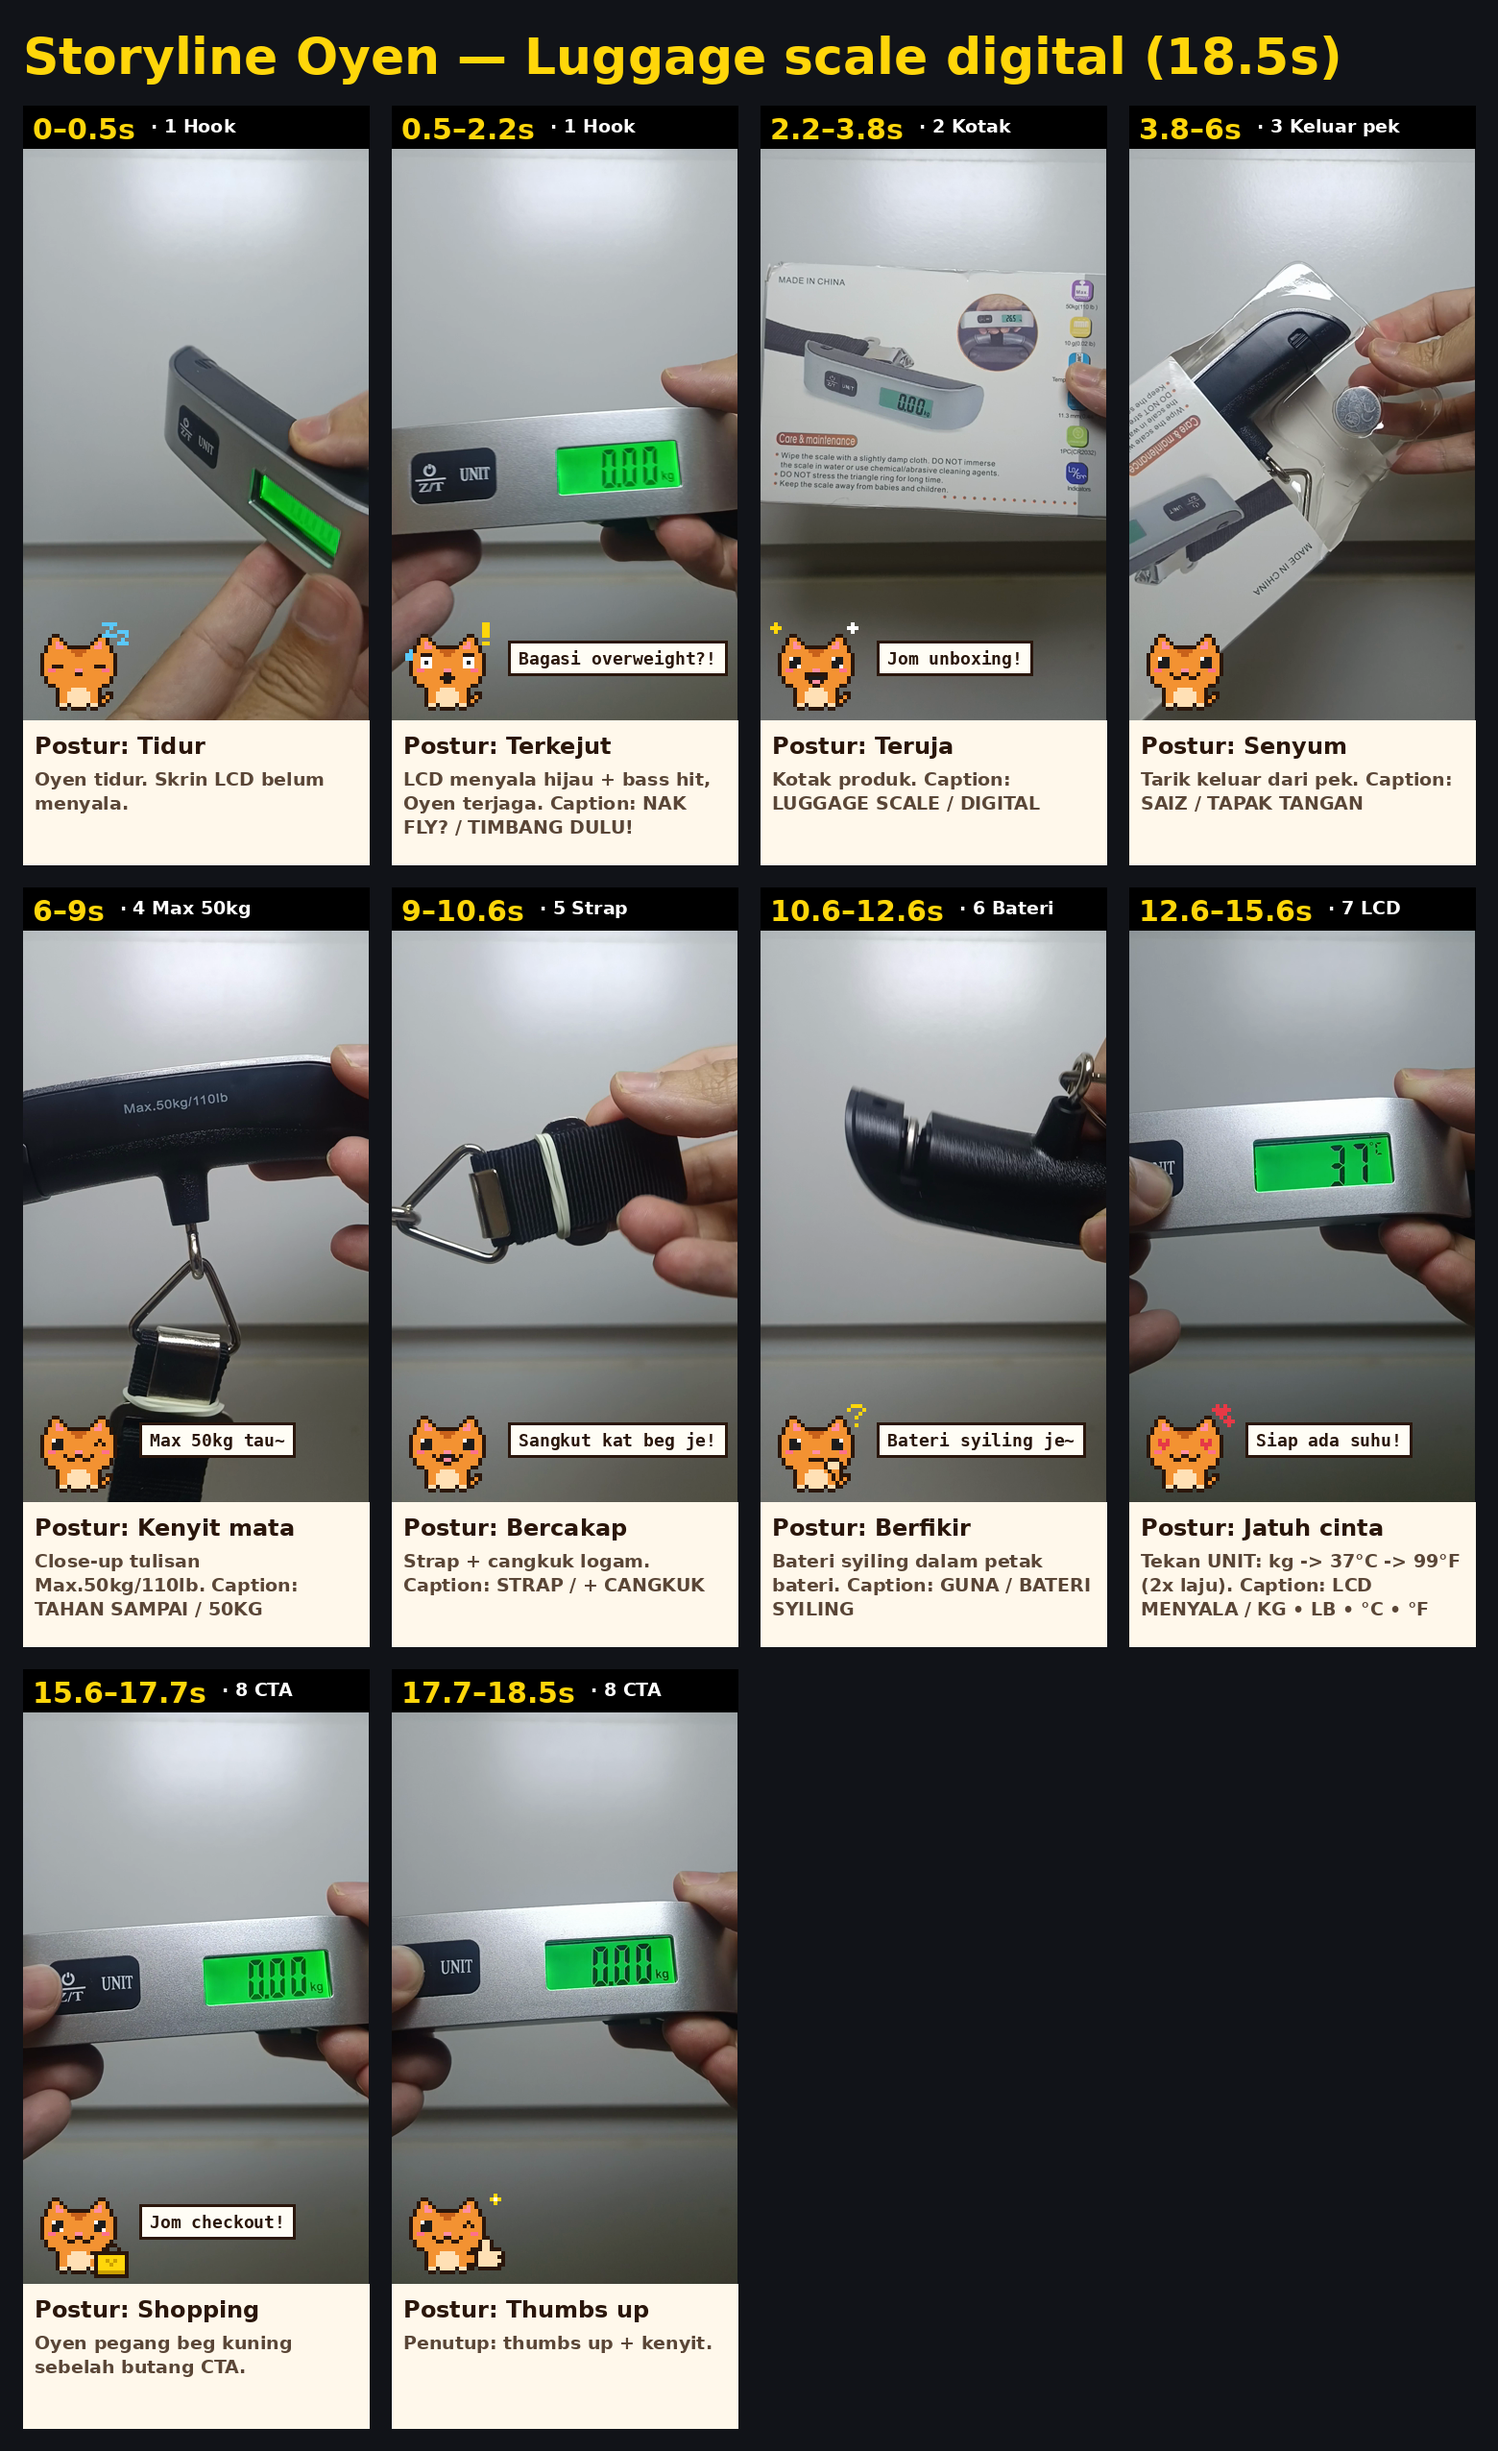
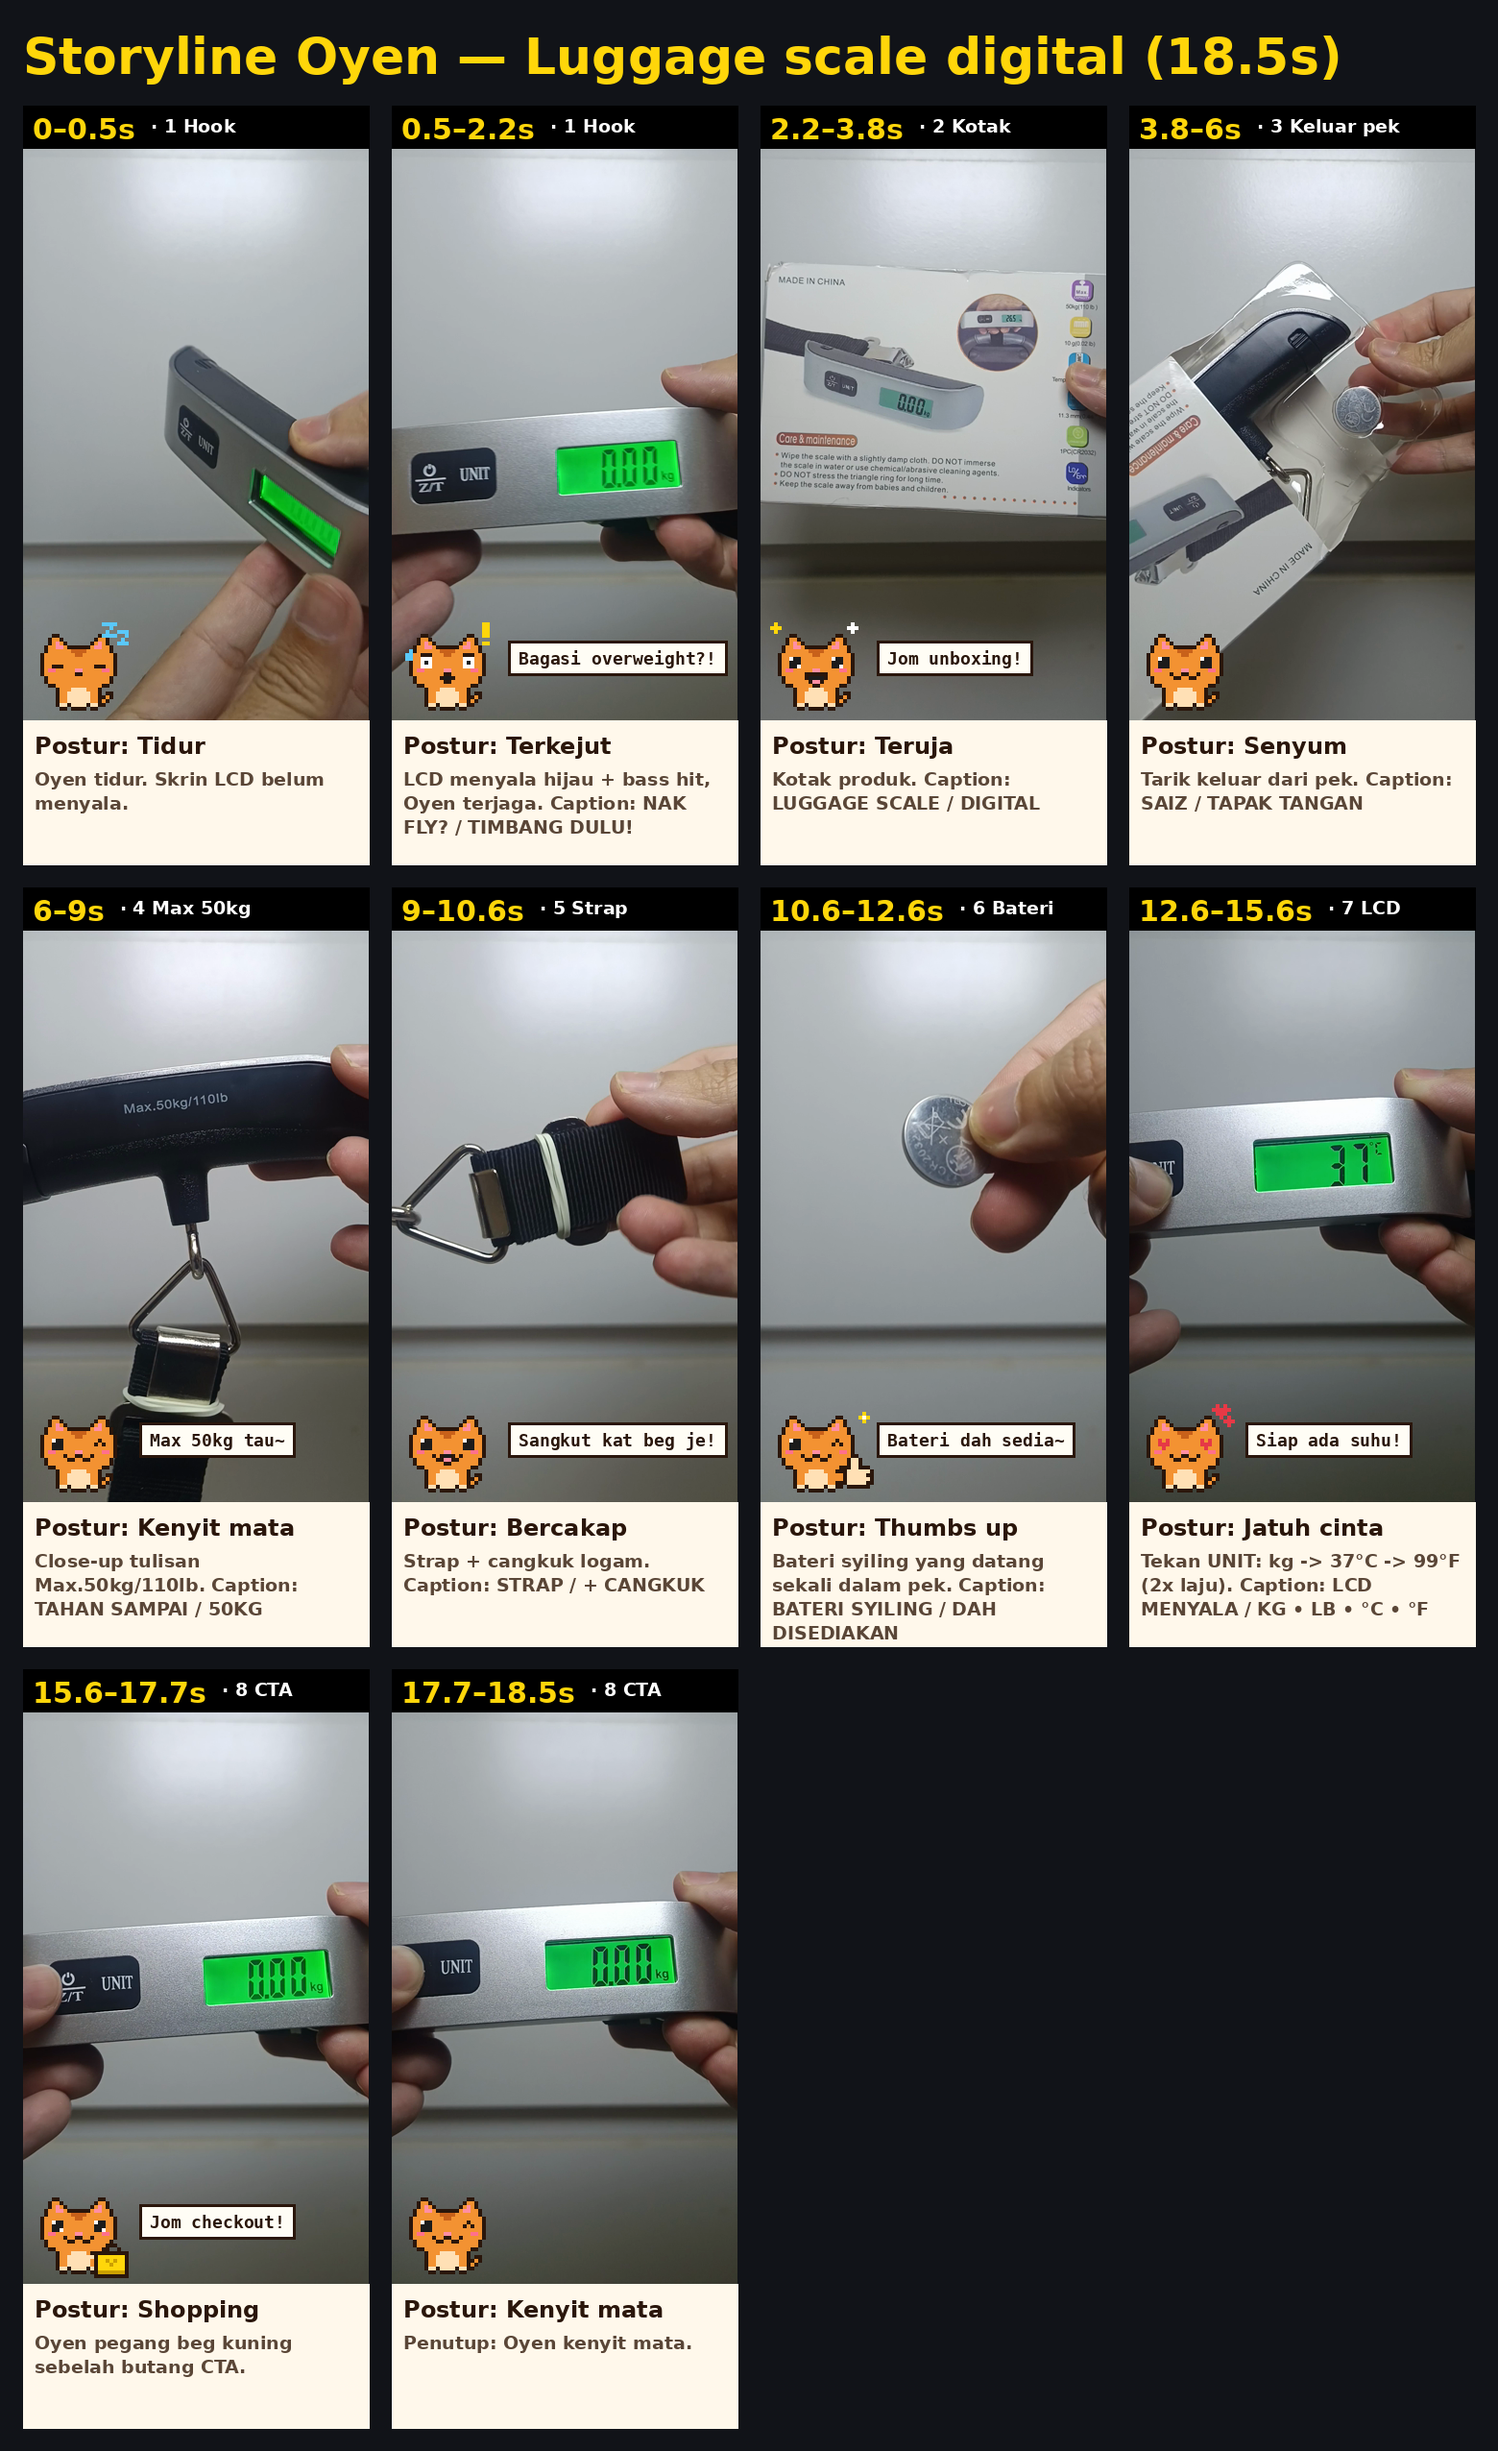
luggage-scale: battery beat says the coin battery is included
Show the coin battery held up (src 84.6s) with Oyen thumbs up and
'Bateri dah sedia~'; caption BATERI SYILING / DAH DISEDIAKAN. The
closing beat becomes a wink so thumbs up isn't used twice.

Claude-Session: https://claude.ai/code/session_01FSFWWRvHpWTAnMm2R9b5o9

Changed region(s): [[0.5231, 0.4024, 0.7385, 0.681], [0.3385, 0.9287, 0.4615, 0.9596], [0.3077, 0.8977, 0.3385, 0.9287]]

diff --git a/videos/luggage-scale/storyline.py b/videos/luggage-scale/storyline.py
@@ -2,7 +2,7 @@
 
 Footage: assets/source-portrait.mp4 (195s, sound removed). Usable moments:
 box 0-3.5s, out of blister 25-34s, hanging + "Max.50kg/110lb" 43-50s,
-LCD/buttons 50-53s, strap buckle 57-61s, coin battery 83-86s / 152-160s,
+LCD/buttons 50-53s, strap buckle 57-61s, coin battery (included in the pack) 28-30s / 83-86s / 152-160s,
 LCD lit + UNIT kg -> 37°C -> 99°F 167-181s. The rest is empty wall.
 No footage of a bag being weighed, so no accuracy claims.
 
@@ -27,14 +27,14 @@ STORYLINE = Storyline(
              "Close-up tulisan Max.50kg/110lb. Caption: TAHAN SAMPAI / 50KG", src=49.0),
         Beat(9.0, 10.6, "5 Strap", "Bercakap", "Sangkut kat beg je!",
              "Strap + cangkuk logam. Caption: STRAP / + CANGKUK", src=59.0),
-        Beat(10.6, 12.6, "6 Bateri", "Berfikir", "Bateri syiling je~",
-             "Bateri syiling dalam petak bateri. Caption: GUNA / BATERI SYILING", src=154.5),
+        Beat(10.6, 12.6, "6 Bateri", "Thumbs up", "Bateri dah sedia~",
+             "Bateri syiling yang datang sekali dalam pek. Caption: BATERI SYILING / DAH DISEDIAKAN", src=84.6),
         Beat(12.6, 15.6, "7 LCD", "Jatuh cinta", "Siap ada suhu!",
              "Tekan UNIT: kg -> 37°C -> 99°F (2x laju). Caption: LCD MENYALA / KG • LB • °C • °F", src=175.5),
         Beat(15.6, 17.7, "8 CTA", "Shopping", "Jom checkout!",
              "Oyen pegang beg kuning sebelah butang CTA.", src=170.5),
-        Beat(17.7, 18.5, "8 CTA", "Thumbs up", None,
-             "Penutup: thumbs up + kenyit.", src=172.0),
+        Beat(17.7, 18.5, "8 CTA", "Kenyit mata", None,
+             "Penutup: Oyen kenyit mata.", src=172.0),
     ],
     blinks=[5.0, 10.35],
     jumps=[0.5],

diff --git a/videos/luggage-scale/storyboard/STORYLINE.md b/videos/luggage-scale/storyboard/STORYLINE.md
@@ -10,11 +10,11 @@ Generated by `python3 -m oyen storyboard` from `storyline.py`; edit that file, n
 | 3.80–6.00 | 3 Keluar pek | Senyum | — | Tarik keluar dari pek. Caption: SAIZ / TAPAK TANGAN |
 | 6.00–9.00 | 4 Max 50kg | Kenyit mata | Max 50kg tau~ | Close-up tulisan Max.50kg/110lb. Caption: TAHAN SAMPAI / 50KG |
 | 9.00–10.60 | 5 Strap | Bercakap | Sangkut kat beg je! | Strap + cangkuk logam. Caption: STRAP / + CANGKUK |
-| 10.60–12.60 | 6 Bateri | Berfikir | Bateri syiling je~ | Bateri syiling dalam petak bateri. Caption: GUNA / BATERI SYILING |
+| 10.60–12.60 | 6 Bateri | Thumbs up | Bateri dah sedia~ | Bateri syiling yang datang sekali dalam pek. Caption: BATERI SYILING / DAH DISEDIAKAN |
 | 12.60–15.60 | 7 LCD | Jatuh cinta | Siap ada suhu! | Tekan UNIT: kg -> 37°C -> 99°F (2x laju). Caption: LCD MENYALA / KG • LB • °C • °F |
 | 15.60–17.70 | 8 CTA | Shopping | Jom checkout! | Oyen pegang beg kuning sebelah butang CTA. |
-| 17.70–18.50 | 8 CTA | Thumbs up | — | Penutup: thumbs up + kenyit. |
+| 17.70–18.50 | 8 CTA | Kenyit mata | — | Penutup: Oyen kenyit mata. |
 
 Kelip mata: 5s, 10.35s · Lompat: 0.5s
 
-Postur tidak digunakan: Layan lagu, Makan
+Postur tidak digunakan: Berfikir, Layan lagu, Makan
